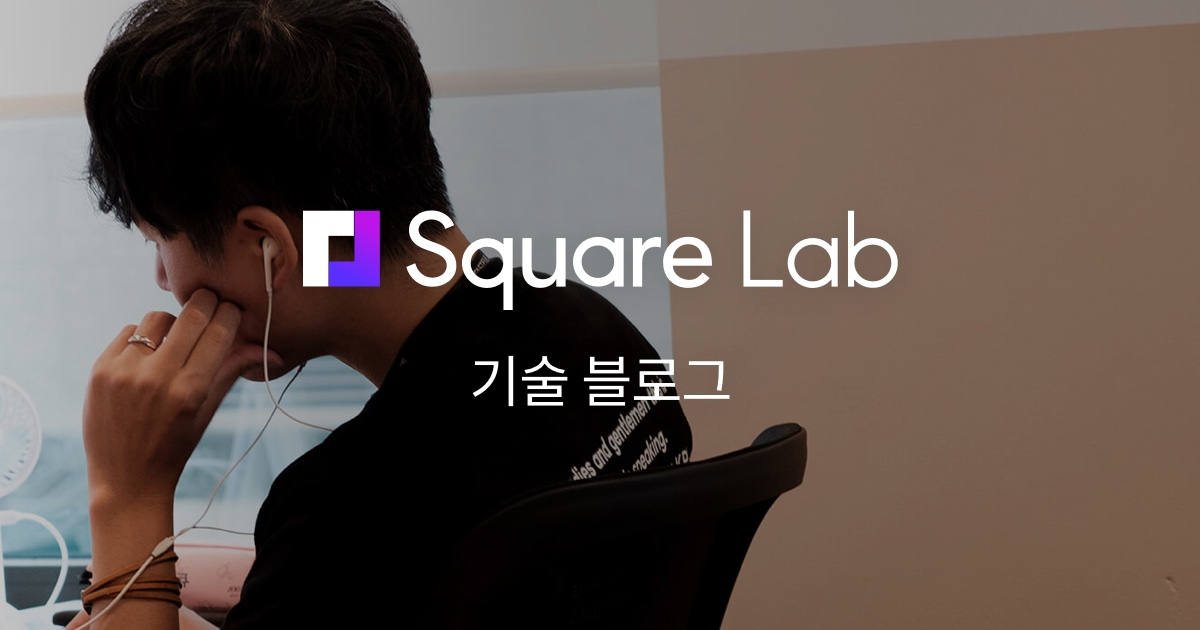
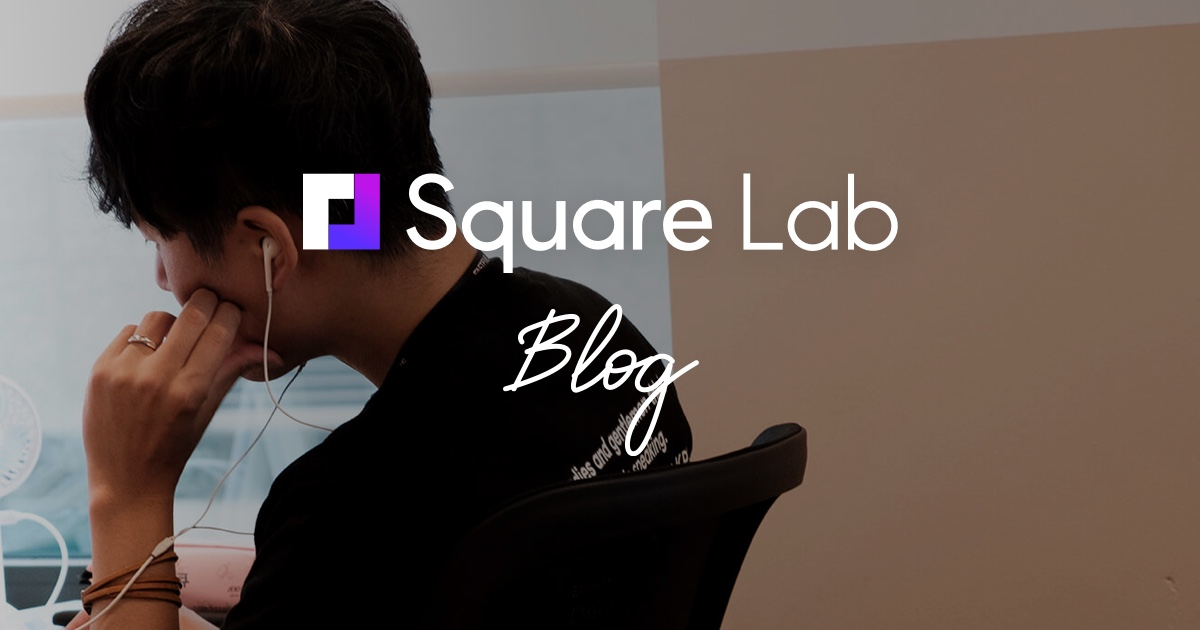
Update og-img

Changed region(s): [[0.2467, 0.2714, 0.7708, 0.4825], [0.4008, 0.4825, 0.6167, 0.7238]]

diff --git a/blog/index.html b/blog/index.html
@@ -61,7 +61,6 @@ permalink: /blog
         }
     }
 
-//
     const pagination = document.getElementById('pagination');
     const maxPage = parseInt(numPosts / perPage) + 2;
     for (i = 1; i < maxPage; i++)

diff --git a/_site/blog.html b/_site/blog.html
@@ -235,7 +235,6 @@
         }
     }
 
-//
     const pagination = document.getElementById('pagination');
     const maxPage = parseInt(numPosts / perPage) + 2;
     for (i = 1; i < maxPage; i++)
